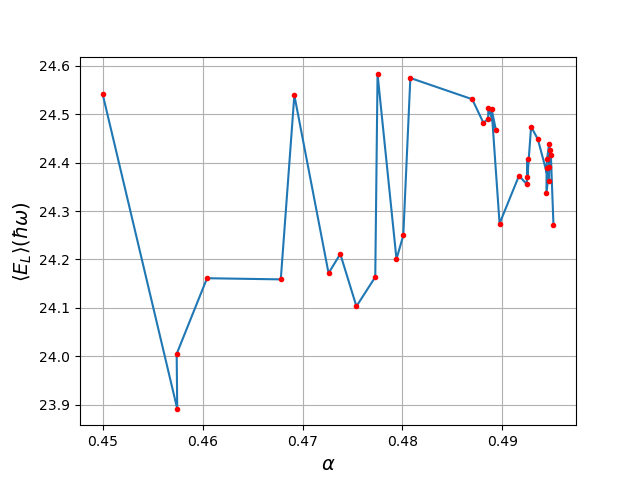
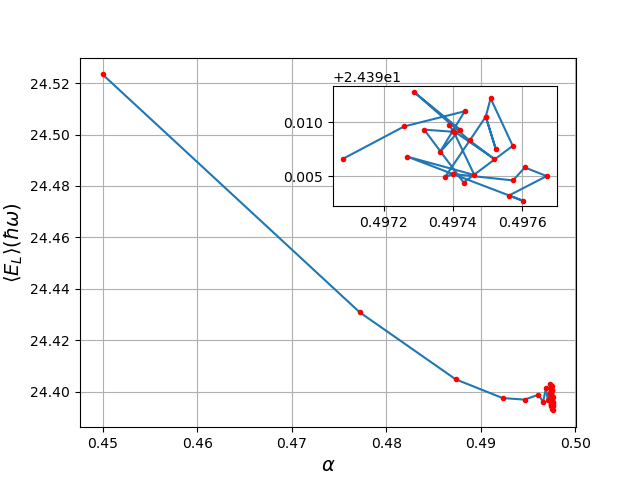
updated

diff --git a/src/plotting.py b/src/plotting.py
@@ -24,11 +24,11 @@ def variationalpha():
     """
     #Filenames
     fn_noninteract=['03N10Dim3nice.txt', '07N10Dim3nice.txt', '03N100Dim3nice.txt']
-    fn_interact=['N10Dim3new.txt', 'N50Dim3new.txt', 'N100Dim3.txt']
+    fn_interact=['N10Dim3new.txt', 'N50Dim3new.txt', 'N100Dim3new.txt']
     #Folders
     folder = ["Results/GDalpha/noninteract/bruteforce/analytic", "Results/GDalpha/interact/bruteforce/numeric"]
 
-    infile = np.loadtxt(data_path(folder[1], fn_interact[1]))
+    infile = np.loadtxt(data_path(folder[1], fn_interact[0]))
 
     #plt.plot(infile[:,0], infile[:,1])
     #plt.plot(infile[:,0], infile[:,1], 'ro', markersize=3)
@@ -53,17 +53,17 @@ def variationalpha():
     plt.ylabel(r'$\langle E_L \rangle(\hbar \omega) $',fontsize=14)
 
     # location for the zoomed portion 
-    #sub_axes = plt.axes([.52, 0.57, 0.35, 0.25]) 
+    sub_axes = plt.axes([.52, 0.57, 0.35, 0.25]) 
     #sub_axes = plt.axes([0.2, 0.57, 0.35, 0.25]) 
     #sub_axes = plt.axes([0.22, 0.59, 0.35, 0.25]) 
 
     # plot the zoomed portion
-    #sub_axes.plot(X_detail, Y_detail) 
-    #sub_axes.plot(X_detail, Y_detail, 'ro', markersize=3) 
+    sub_axes.plot(X_detail, Y_detail) 
+    sub_axes.plot(X_detail, Y_detail, 'ro', markersize=3) 
 
     # insert the zoomed figure
-    # plt.setp(sub_axes)
-    #plt.grid()
+    #plt.setp(sub_axes)
+    plt.grid()
 
     plt.show()
 

diff --git a/src/statisticalhandling.py b/src/statisticalhandling.py
@@ -57,10 +57,10 @@ folder_bruteforce = ["Results/bruteforce/analytic", "Results/bruteforce/numeric"
 folder_importance = ["Results/importancesampling/analytic", "Results/importancesampling/numeric"]
 
 #Filenames interacting
-fn_interact=   ["N=10Dim=3_interact", "N=50Dim=3_interact", "N=100Dim=3_interact", "N=10Dim=3_interact_220steps"]
+fn_interact=   ["N=10Dim=3_interact_new", "N=50Dim=3_interact", "N=100Dim=3_interact", "N=10Dim=3_interact_220steps"]
 folder_interact = ["Results/bruteforce/numeric/interact/"]
 
-infile = open(data_path(folder_interact[0], fn_interact[3]),'r')
+infile = open(data_path(folder_interact[0], fn_interact[0]),'r')
 
 x = loadtxt(infile)
 (mean, var) = block(x) 
